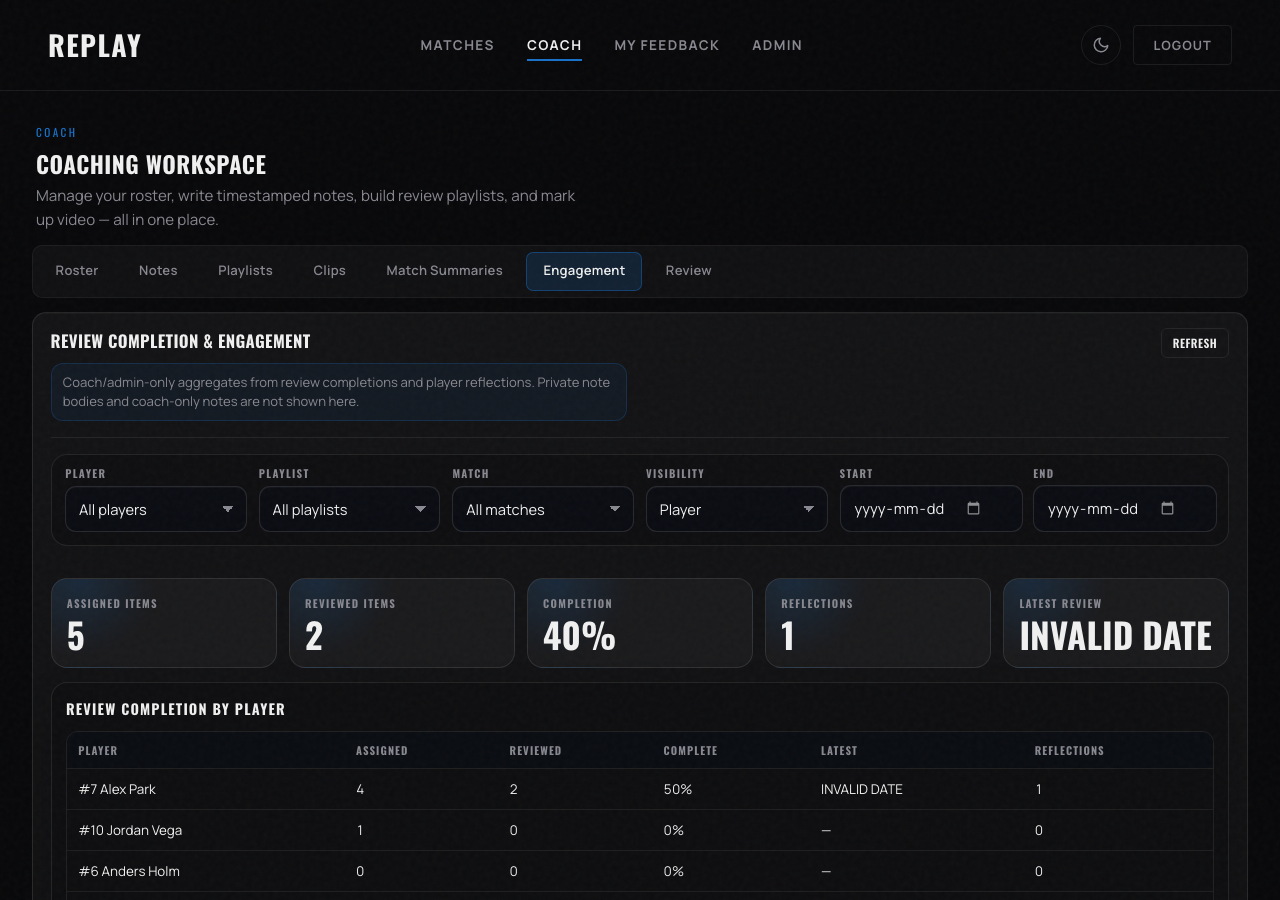
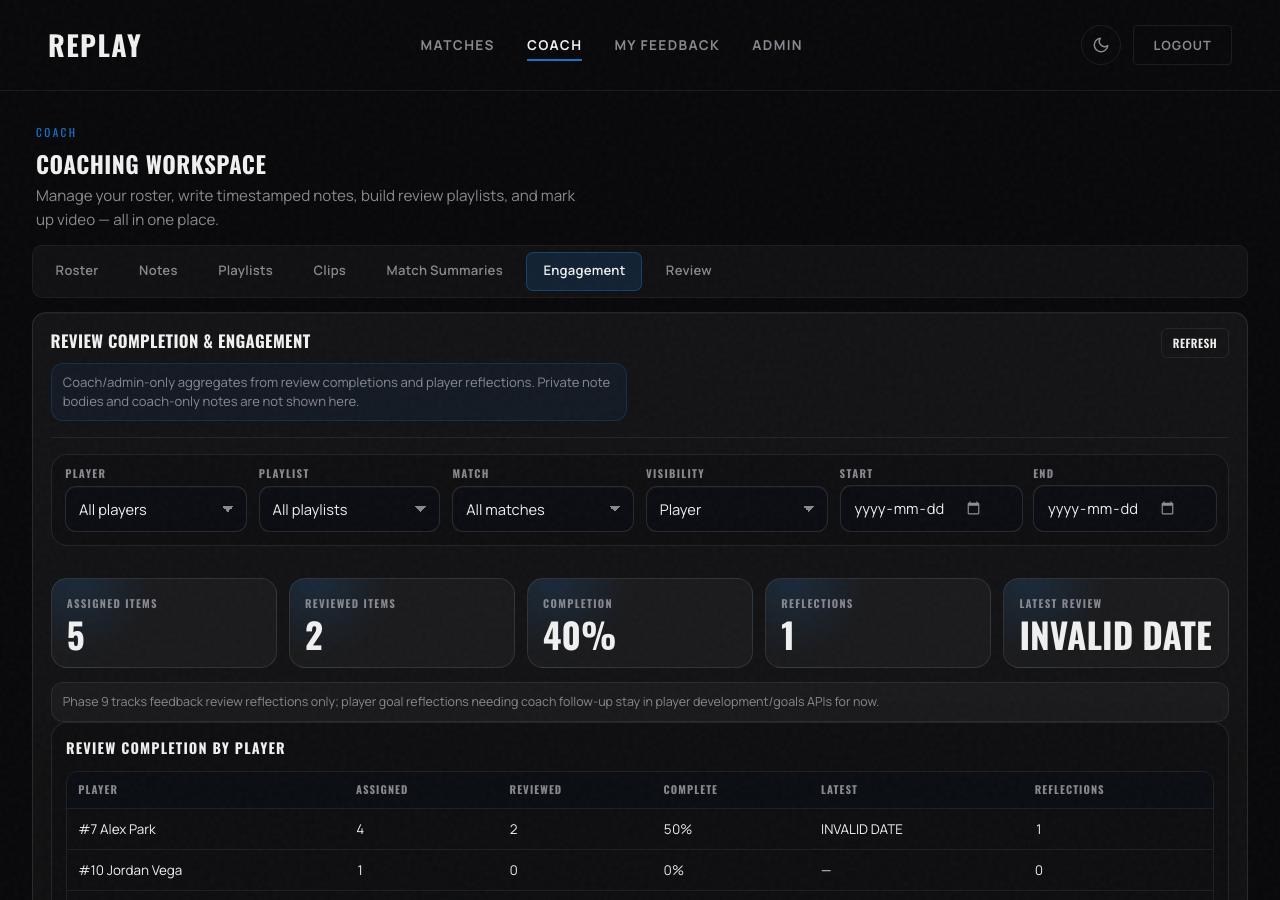
fix: document phase 9 engagement reflection scope

diff --git a/tests/e2e/phase-9-engagement-dashboard.spec.js b/tests/e2e/phase-9-engagement-dashboard.spec.js
@@ -61,6 +61,7 @@ test.describe('Phase 9 — engagement dashboard UI and privacy captures', () => 
         await expect(page.locator('#coach-engagement-dashboard')).toContainText('Review completion by player');
         await expect(page.locator('#coach-engagement-visibility')).toBeVisible();
         await expect(page.locator('#coach-engagement-dashboard')).toContainText('Reflections needing response');
+        await expect(page.locator('#coach-engagement-dashboard')).toContainText('feedback review reflections only');
         await expect(page.locator('#coach-engagement-visibility')).not.toContainText('Private');
         await page.screenshot({ path: path.join(OUT, '01-coach-engagement-dashboard.png'), fullPage: false });
     });

diff --git a/js/coaching.js b/js/coaching.js
@@ -1647,6 +1647,7 @@ export const coachingMixin = {
             <div class="coach-engagement-kpis">${tiles.map(([label, value]) => `
                 <div class="coach-engagement-kpi"><span class="coach-engagement-kpi-label">${this.esc(label)}</span><strong class="coach-engagement-kpi-value">${this.esc(String(value))}</strong></div>
             `).join('')}</div>
+            <p class="coach-engagement-note">${this.esc(data.limitations?.goal_reflections_scope || 'Phase 9 tracks feedback review reflections only.')}</p>
             <div class="coach-engagement-grid">
                 <section class="coach-engagement-card coach-engagement-card--wide">
                     <h4>Review completion by player</h4>

diff --git a/tests/test_coaching.py b/tests/test_coaching.py
@@ -784,6 +784,14 @@ async def test_coach_engagement_dashboard_aggregates_completion_and_filters(clie
         "title": "Ava review playlist", "description": "playlist detail should not leak",
         "visibility": "player", "note_ids": [ava_note], "player_ids": [ava],
     }, headers=auth_headers)).json()["playlist"]["id"]
+    summary_resp = await client.post("/api/coach/match-summaries", json={
+        "match_id": match,
+        "visibility": "team",
+        "team_positives": "MATCH SUMMARY SHOULD NOT INFLATE ENGAGEMENT CANARY",
+        "note_ids": [ava_note],
+        "playlist_ids": [playlist],
+    }, headers=auth_headers)
+    assert summary_resp.status_code == 200
 
     ava_headers = await _login(client, "phase9_ava_family")
     resp = await client.post("/api/my-feedback/review", json={
@@ -796,6 +804,19 @@ async def test_coach_engagement_dashboard_aggregates_completion_and_filters(clie
     resp = await client.post("/api/my-feedback/review", json={"note_id": mia_note}, headers=mia_headers)
     assert resp.status_code == 200
 
+    goal_resp = await client.post("/api/coach/goals", json={
+        "player_id": ava,
+        "title": "Phase 9 goal reflection not counted",
+        "visibility": "player",
+    }, headers=auth_headers)
+    assert goal_resp.status_code == 200
+    goal_id = goal_resp.json()["goal"]["id"]
+    goal_reflection_resp = await client.post(f"/api/my-feedback/goals/{goal_id}/reflection", json={
+        "reflection": "GOAL REFLECTION FOLLOWUP CANARY",
+    }, headers=ava_headers)
+    assert goal_reflection_resp.status_code == 200
+    assert goal_reflection_resp.json()["reflection"]["needs_coach_follow_up"] is True
+
     dashboard_resp = await client.get(f"/api/coach/engagement?match_id={match}", headers=auth_headers)
     assert dashboard_resp.status_code == 200
     data = dashboard_resp.json()["engagement"]
@@ -804,6 +825,10 @@ async def test_coach_engagement_dashboard_aggregates_completion_and_filters(clie
     assert data["summary"]["reviewed_items"] == 2
     assert data["summary"]["completion_percentage"] == 67
     assert data["limitations"]["clip_reviews_supported"] is False
+    assert data["limitations"]["goal_reflections_supported"] is False
+    assert "feedback review reflections only" in data["limitations"]["goal_reflections_scope"]
+    assert "GOAL REFLECTION FOLLOWUP CANARY" not in str(data)
+    assert "MATCH SUMMARY SHOULD NOT INFLATE ENGAGEMENT CANARY" not in str(data)
     assert data["by_player"][0]["player_id"] == ava
     assert data["by_player"][0]["assigned_count"] == 3
     assert data["by_player"][0]["reviewed_count"] == 2

diff --git a/server.py b/server.py
@@ -3378,6 +3378,8 @@ def _build_coach_engagement_dashboard(
             "clip_reviews_supported": False,
             "most_watched_source": "coaching_reviews note_id/playlist_id counts; clip watch tracking is not yet supported.",
             "reflection_response_tracking_supported": False,
+            "goal_reflections_supported": False,
+            "goal_reflections_scope": "Phase 9 tracks feedback review reflections only; player goal reflections needing coach follow-up stay in player development/goals APIs for now.",
         },
     }
 
